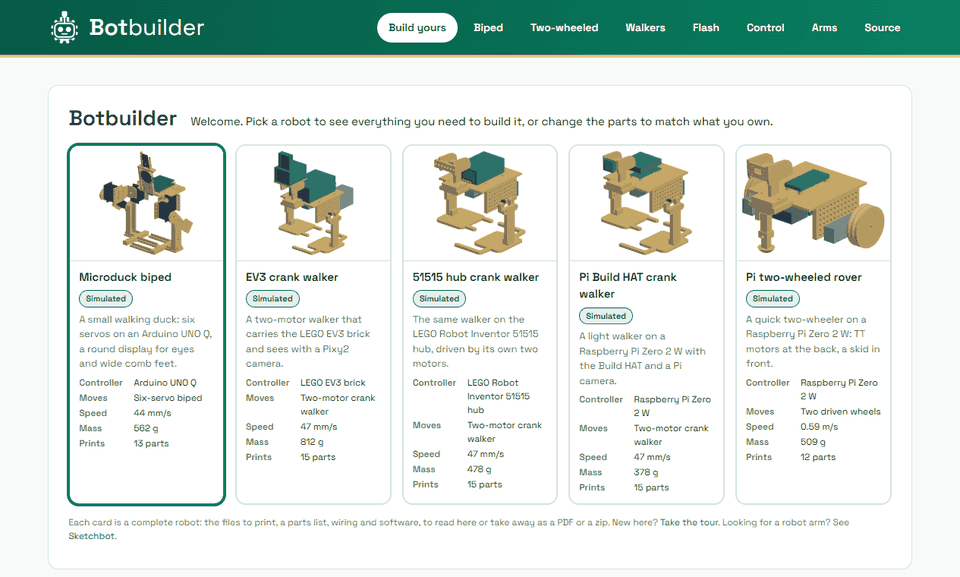
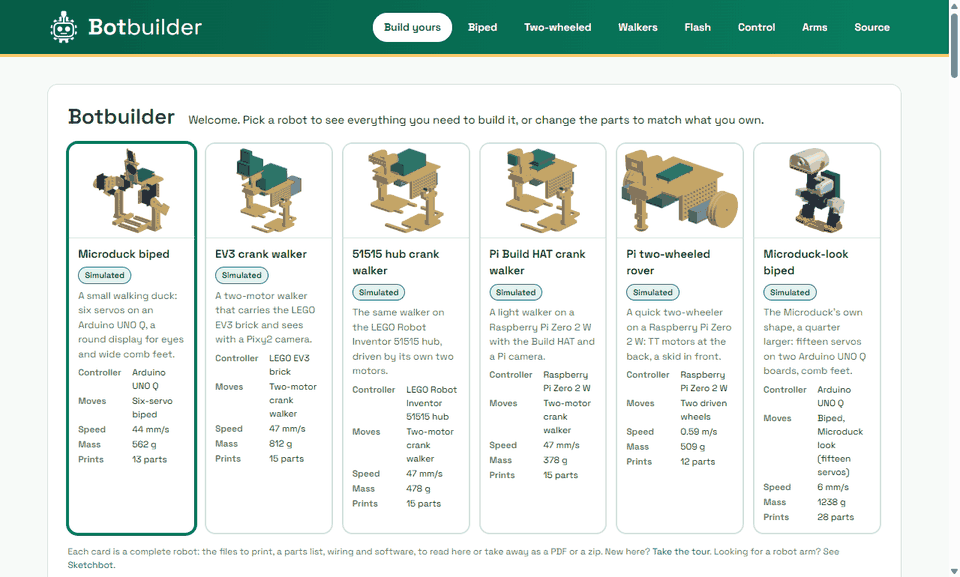
site: the Microduck-look biped as the sixth finished build
A card on the landing page, on its comb feet, with its own picture; the
feet are a choice in the sidebar for it as for the plate biped, and each
choice has its own entry in the build's summary. Its recipe links to a
flash page that says what to do in place of the six-joint agent's
commands, and to a section about it on the biped page.

Changed region(s): [[0.0625, 0.1872, 0.9375, 0.9983], [0.0, 0.0, 1.0, 0.1248]]

diff --git a/site/biped.html b/site/biped.html
@@ -39,7 +39,7 @@
       <span class="release-tag">Bench prototype</span>
     </div>
     <p class="lead"><a href="./?locomotion=biped">Build this biped from the parts you have</a>: the configurator lists the files, parts and wiring for your controller.</p>
-    <p class="subnav">On this page: <a href="#assembly">Assembly</a><a href="#viewer">3D view</a><a href="#simulation">Simulation</a><a href="#motion">Walk and sit</a><a href="#real">Sim to real</a></p>
+    <p class="subnav">On this page: <a href="#assembly">Assembly</a><a href="#viewer">3D view</a><a href="#simulation">Simulation</a><a href="#motion">Walk and sit</a><a href="#real">Sim to real</a><a href="#look">Microduck look</a></p>
 
     <section id="what" class="two-col">
       <div>
@@ -143,6 +143,28 @@
         <p id="power"></p>
       </div>
     </section>
+
+    <section id="look">
+      <div class="section-heading"><span class="step">06</span><h2>The Microduck-look biped</h2><a href="https://github.com/eoinjordan/botbuilder/blob/main/docs/microduck-look.md" rel="noopener noreferrer">Full report</a></div>
+      <div class="two-col">
+        <div>
+          <p>A second biped that keeps the Microduck's own shape: its body, head, thigh covers and feet at 1.25 times the
+            size, on the servos of two TinkerKit Braccio kits. Fifteen joints: hip yaw, hip roll, hip pitch, knee and ankle
+            on each leg, a pitching neck, and a head that pitches, turns, rolls and opens its beak. Two Arduino UNO Q
+            boards with their shields ride on its back; a camera board sits behind the eye.</p>
+          <p>It comes with two sets of feet: the Microduck's soles widened towards the centre line, or comb feet whose
+            fingers cross the centre line between the other foot's, so either foot alone is under the body.
+            <a href="./?locomotion=biped_look">Build this one</a>: the configurator lists its files, parts and wiring.</p>
+          <dl class="facts" id="look-facts"></dl>
+          <p class="small-note" style="margin-left:0">Source model: Microduck by Pollen Robotics,
+            <a href="https://github.com/pollen-robotics/microduck_rl" rel="noopener noreferrer">github.com/pollen-robotics/microduck_rl</a>.
+            The parts of this build and the pictures of them are adapted from it and carry
+            <a href="https://creativecommons.org/licenses/by-nc-sa/4.0/" rel="noopener noreferrer">CC BY-NC-SA 4.0</a>
+            (<a href="./stl/microduck-look/LICENSE">credit and changes</a>); not for commercial use. Print the fit pieces first.</p>
+        </div>
+        <figure><img loading="lazy" src="./stl/microduck-look/images/look-comb-feet.png" width="700" height="760" alt="Rendered view of the Microduck-look biped standing on its comb feet"><figcaption>Stand pose, on the comb feet</figcaption></figure>
+      </div>
+    </section>
   </main>
   <footer>
     <p class="foot-note">The printable parts are flat plates whose outlines started from Microduck meshes; those meshes are not in the repository; see NOTICE. No analytics, no cookies; the checklist ticks stay in this browser.</p>
@@ -156,7 +178,8 @@
       <a href="https://github.com/eoinjordan/botbuilder" rel="noopener noreferrer">Source</a>
       <a href="https://github.com/eoinjordan/botbuilder/issues" rel="noopener noreferrer">Report a problem</a>
     </nav>
-    <p class="foot-legal">Code and printable parts under the MIT licence; pictures as on the credits page. Fonts: Space Grotesk, SIL Open Font
+    <p class="foot-legal">Code and printable parts under the MIT licence, except the Microduck-look parts: CC BY-NC-SA 4.0, adapted from the
+      Microduck by Pollen Robotics (<a href="./stl/microduck-look/LICENSE">text</a>). Pictures as on the credits page. Fonts: Space Grotesk, SIL Open Font
       License (<a href="./assets/licenses/space-grotesk.txt">text</a>). <span id="trademarks">LEGO, Mindstorms and Technic are trademarks of the LEGO Group, which does not sponsor, authorise or endorse this project. Raspberry Pi is a trademark of Raspberry Pi Ltd. Arduino, UNO Q, TinkerKit and Braccio are trademarks of Arduino. No affiliation with any of them.</span></p>
     <!-- /shared:footer -->
   </footer>

diff --git a/site/flash.js b/site/flash.js
@@ -25,6 +25,13 @@ export const BASES = {
   esp32cam: { label: "AI Thinker ESP32-CAM", written: false,
     note: "No firmware for an ESP32-CAM exists. The sketchbot flashes its camera board, an ESP-EYE, by hand from the " +
       "Arduino IDE; that sketch does not run on an ESP32-CAM as it is. There is no command to give here." },
+  look: { label: "Microduck-look biped on two Arduino UNO Q boards", written: false,
+    note: "This build has fifteen joints on two Arduino UNO Q boards and an I2C servo driver. The agent this page " +
+      "flashes drives six joints on one board, so no command is shown here rather than a made-up one. What you can " +
+      "do: rehearse the build in simulation with python scripts/run_look.py --sim; write your own sketch from the " +
+      "joint table in robot/microduck-look/joints.json, which names each joint's range, servo, board and output; or " +
+      "go back to Build yours and pick the six-servo biped, which has flash steps. Keep both servo supplies " +
+      "disconnected whenever you flash a board." },
   raspberrypi: { label: "Raspberry Pi", written: false },
   lego: { label: "LEGO hub", written: false },
   m5stack: { label: "M5Stack", written: false },
@@ -40,7 +47,8 @@ export function resolveBase(value) {
   const given = raw.slice(0, 40);
   const id = raw.toLowerCase().replace(/[^a-z0-9]/g, "");
   let key = "other";
-  if (/^(arduino)?unoq/.test(id)) key = "unoq";
+  if (/^(microduck)?look/.test(id)) key = "look";
+  else if (/^(arduino)?unoq/.test(id)) key = "unoq";
   else if (id.includes("espeye")) key = "espeye";
   else if (id.includes("esp32cam")) key = "esp32cam";
   else if (id.includes("raspberry") || /^r?pi/.test(id)) key = "raspberrypi";

diff --git a/site/app.js b/site/app.js
@@ -264,8 +264,31 @@ async function viewer(model, joints) {
   window.microduckViewer = { hinges, setJoint, pose, draw };
 }
 
+// The Microduck-look biped: mass, size and the simulated walking speed on
+// each set of feet, from its summary (reports/microduck-look/summary.json).
+function fillLook(summary) {
+  const facts = document.getElementById("look-facts");
+  const first = summary.entries[0];
+  const items = [
+    ["Mass", `${Math.round(first.mass_g)} g`],
+    ["Size (L x W x H)", first.size_mm.map((value) => Math.round(value)).join(" x ") + " mm"],
+    ["Actuated joints", "15"],
+  ];
+  const speeds = summary.walking_speed_by_feet;
+  if (speeds) {
+    items.push(["Simulated walk, plain feet", `${speeds.flat.speed_mm_s} mm/s`]);
+    items.push(["Simulated walk, comb feet", `${speeds.comb.speed_mm_s} mm/s`]);
+  }
+  for (const [name, value] of items) {
+    const box = document.createElement("div");
+    box.append(el("dt", name), el("dd", value));
+    facts.append(box);
+  }
+}
+
 async function main() {
   checklist();
+  getJson("look-summary.json").then(fillLook).catch(() => {});
   try {
     const [report, sim, joints, model, hardware] = await Promise.all(
       ["assembly.json", "sim.json", "joints.json", "model.json", "hardware.json"].map(getJson));

diff --git a/site/build.js b/site/build.js
@@ -313,6 +313,7 @@ function pass(data, sel) {
     status,
     reasons: reasons.map((text) => fill(text, values)),
     base: row.base,
+    flash: row.flash ?? row.base,
     build: buildId(sel),
     validated: mark,
     sources: base.sources,
@@ -424,6 +425,7 @@ export function evaluate(data, selection) {
     reasons: first.reasons,
     refusal: first.codes,
     base: null,
+    flash: null,
     build: buildId(sel),
     validated: null,
     sources: [],
@@ -727,7 +729,7 @@ function render(data, recipe, target) {
   if (more) {
     const para = el("p", undefined, "type-link no-print");
     const link = el("a", more.text);
-    link.href = `./${more.page}`;
+    link.href = `./${more.page}${more.anchor ? `#${more.anchor}` : ""}`;
     para.append(link);
     what.append(para);
   }
@@ -822,7 +824,7 @@ function render(data, recipe, target) {
         // The Flash page builds the commands for this controller, or says
         // that none are written.
         const link = el("a", "Flash steps for this controller");
-        link.href = `./flash.html?base=${encodeURIComponent(recipe.base)}`;
+        link.href = `./flash.html?base=${encodeURIComponent(recipe.flash)}`;
         const para = el("p");
         para.append(link);
         section.append(para);

diff --git a/site/recipe.css b/site/recipe.css
@@ -7,7 +7,7 @@
 .builds-head { display: flex; align-items: baseline; gap: 6px 18px; flex-wrap: wrap; margin-bottom: 14px; }
 .builds-head h1 { font-size: 28px; }
 .builds-lead { margin: 0; color: var(--ink); font-size: 15px; }
-.build-cards { display: grid; grid-template-columns: repeat(5, minmax(0, 1fr)); gap: 14px; padding: 4px; margin: 0 -4px 10px; }
+.build-cards { display: grid; grid-template-columns: repeat(6, minmax(0, 1fr)); gap: 12px; padding: 4px; margin: 0 -4px 10px; }
 .build-card { display: flex; flex-direction: column; min-width: 0; padding: 0; text-align: left; font: inherit; color: var(--ink); background: #fff; border: 2px solid var(--line); border-radius: 14px; overflow: hidden; }
 .build-card:hover { border-color: var(--green); }
 .build-card[aria-checked="true"] { border-color: var(--green); box-shadow: 0 0 0 2px var(--green); }

diff --git a/tests/test_builds.py b/tests/test_builds.py
@@ -62,9 +62,9 @@ def problems(data: dict, entry: dict, root=ROOT) -> list:
     return out
 
 
-def test_the_file_names_four_or_five_builds_in_order(data, written):
+def test_the_file_names_four_to_six_builds_in_order(data, written):
     listed = data["builds"]["list"]
-    assert 4 <= len(listed) <= 5
+    assert 4 <= len(listed) <= 6
     assert [item["id"] for item in listed] == [item["id"] for item in sorted(written["builds"], key=lambda item: item["order"])]
     assert len({item["id"] for item in listed}) == len(listed) and data["builds"]["default"] == listed[0]["id"]
     known = {dim["id"]: [option["id"] for option in dim["options"]] for dim in data["compat"]["dimensions"]}
@@ -75,8 +75,8 @@ def test_the_file_names_four_or_five_builds_in_order(data, written):
         for key, value in item["selection"].items():
             assert value in known[key], f"{item['id']}: {key}={value}"
         assert {"controller", "locomotion", "drive"} <= set(item["selection"])
-    # The range: the biped, the crank walkers and a two-wheeled build, on more than one controller.
-    assert {item["selection"]["locomotion"] for item in listed} == {"biped", "crank", "wheeled"}
+    # The range: the two bipeds, the crank walkers and a two-wheeled build, on more than one controller.
+    assert {item["selection"]["locomotion"] for item in listed} == {"biped", "biped_look", "crank", "wheeled"}
     assert len({item["selection"]["controller"] for item in listed}) >= 4
     wheeled = [item for item in listed if item["selection"]["locomotion"] == "wheeled"]
     assert all(item["selection"]["wheels"] == "back" for item in wheeled)
@@ -123,6 +123,13 @@ def test_every_build_has_figures_from_the_reports(data, sim_report, selected):
         assert set(figures) == {"mass_g", "speed_mm_s"}, entry["id"]
         assert 100 < figures["mass_g"] < 2000 and 5 < figures["speed_mm_s"] < 2000
         sel = recipe.build_selection(data, entry)
+        if sel["locomotion"] == "biped_look":
+            look = json.loads((ROOT / "reports" / "microduck-look" / "summary.json").read_text(encoding="utf-8"))
+            mine = recipe.summary_entry(sel, ROOT)
+            assert mine in look["entries"] and mine["feet"] == sel["feet"] and mine["status"] == "analysed in simulation"
+            assert figures == {"mass_g": mine["mass_g"], "speed_mm_s": look["walking_speed_by_feet"][sel["feet"]]["speed_mm_s"]}
+            assert f"Mass {mine['mass_g']:g} g by the model." in recipe.evaluate(data, sel)["analysis"]
+            continue
         if sel["locomotion"] == "biped":
             study = json.loads((ROOT / "reports" / "motion.json").read_text(encoding="utf-8"))
             walk = study["presets"][sel["feet"]]["walk"]["nominal"]["speed_mm_s"]
@@ -151,6 +158,27 @@ def test_every_build_has_a_current_picture(data):
             assert image.size == buildpics.SIZE and image.mode == "P"
             assert len(image.getcolors()) > 4, "not a blank card"
         assert len(content) < 20_000, "card pictures stay small"
+
+
+def test_the_look_card_is_on_the_feet_that_walk_faster(data, written):
+    """The Microduck-look card names its feet, and names the set that the
+    simulation walks faster on; its recipe gives the source model and the
+    terms of its parts."""
+    look = json.loads((ROOT / "reports" / "microduck-look" / "summary.json").read_text(encoding="utf-8"))
+    card = next(item for item in written["builds"] if item["selection"]["locomotion"] == "biped_look")
+    speeds = look["walking_speed_by_feet"]
+    assert card["selection"]["feet"] == speeds["faster"]
+    assert speeds[speeds["faster"]]["truly_steps"] and not speeds[speeds["faster"]]["poses_with_mesh_overlap"]
+    entry = next(e for e in data["builds"]["list"] if e["id"] == card["id"])
+    rec = recipe.evaluate(data, recipe.build_selection(data, entry))
+    assert rec["flash"] == "look" and rec["base"] == "unoq_braccio"
+    assert any("Microduck by Pollen Robotics, https://github.com/pollen-robotics/microduck_rl" in text and "CC BY-NC-SA 4.0" in text
+               for text in rec["reasons"])
+    names = [item["file"] for item in rec["print"]["files"]]
+    comb = card["selection"]["feet"] == "comb"
+    assert ("microduck-look/left_foot_comb.stl" in names) == comb and ("microduck-look/left_foot.stl" in names) != comb
+    job = buildpics.plan(data, entry)
+    assert job["kind"] == "look" and job["feet"] == ("comb" if comb else "web")
 
 
 def test_the_site_gets_the_builds_and_their_pictures():

diff --git a/tests/test_look_recipe.py b/tests/test_look_recipe.py
@@ -10,7 +10,7 @@ from microduck import recipe
 from microduck.look import model
 
 LINE = "Microduck-look parts: CC BY-NC-SA 4.0, adapted from Pollen Robotics' Microduck; not for commercial use"
-SELECTION = {"controller": "unoq", "locomotion": "biped_look", "drive": "braccio_two_shields", "camera": "esp_eye"}
+SELECTION = {"controller": "unoq", "locomotion": "biped_look", "drive": "braccio_two_shields", "camera": "esp_eye", "feet": "flat"}
 
 pytestmark = pytest.mark.skipif(not model.have_parts(), reason="stl/microduck-look is not there")
 
@@ -31,11 +31,43 @@ def test_the_configurator_offers_it(recipe_data):
     assert "M5Stack Servo Kit 180" in names and "PCA9685" in names
     assert any("Not written for fifteen joints" in line for line in rec["firmware"])
     assert any("One supply per shield" in line for line in rec["power"])
-    entry = load("reports", "microduck-look", "summary.json")["entries"][0]
+    summary = load("reports", "microduck-look", "summary.json")
+    entry = summary["entries"][0]
     assert entry["style"] == "microduck" and entry["title"] == "Biped, Microduck look" and entry["licence_line"] == LINE
+    assert entry["feet"] == "flat" and [e["feet"] for e in summary["entries"]] == ["flat", "comb"]
+    assert summary["source_model"] == "Microduck by Pollen Robotics, https://github.com/pollen-robotics/microduck_rl"
     # the plate biped is as it was: none of these files, none of these parts
     assert " ".join(LINE.split()) in " ".join((ROOT / "README.md").read_text(encoding="utf-8").split())
     plates = recipe.evaluate(recipe_data, {"controller": "unoq", "locomotion": "biped", "drive": "braccio_shield"})
     assert not any(item["file"].startswith("microduck-look/") for item in plates["print"]["files"])
     assert recipe.evaluate(recipe_data, dict(SELECTION, head="sg90_pan"))["refusal"] == ["look-head-has-its-own-servos"]
     assert recipe.evaluate(recipe_data, dict(SELECTION, controller="pi"))["status"] == "not_possible"
+
+
+def test_the_feet_are_a_choice(recipe_data):
+    """Comb or plain feet: each gives the same build with its own two feet,
+    its own numbers from the summary and no flash steps of the six-joint agent."""
+    flat = recipe.evaluate(recipe_data, SELECTION)
+    comb = recipe.evaluate(recipe_data, dict(SELECTION, feet="comb"))
+    assert flat["labels"]["feet"] == "Flat feet" and comb["labels"]["feet"] == "Comb feet"
+    assert "feet=flat" in flat["query"] and "feet=comb" in comb["query"]
+    for rec in (flat, comb):
+        assert rec["status"] == "analysed" and rec["refusal"] == [] and rec["flash"] == "look"
+        files = [item["file"] for item in rec["print"]["files"]]
+        assert len(files) == 28 and all(item["thumb"] and item["link"] for item in rec["print"]["files"])
+        assert any(LINE in text for text in rec["reasons"])
+    names = lambda rec: {item["file"] for item in rec["print"]["files"]}      # noqa: E731
+    assert names(comb) - names(flat) == {"microduck-look/left_foot_comb.stl", "microduck-look/right_foot_comb.stl"}
+    assert names(flat) - names(comb) == {"microduck-look/left_foot.stl", "microduck-look/right_foot.stl"}
+    assert any(line.startswith("Comb feet:") for line in comb["assembly"]) and not any(line.startswith("Comb feet:") for line in flat["assembly"])
+    summary = load("reports", "microduck-look", "summary.json")
+    speeds = summary["walking_speed_by_feet"]
+    study = load("reports", "microduck-look", "sim.json")
+    assert speeds["flat"]["speed_mm_s"] == study["walk"]["speed_mm_s"]
+    assert speeds["comb"]["speed_mm_s"] == study["comb_feet"]["walk"]["speed_mm_s"]
+    for option, rec in (("flat", flat), ("comb", comb)):
+        assert any(f"{speeds[option]['speed_mm_s']} mm/s" in line for line in rec["analysis"]), option
+    # the plate biped keeps its own feet files
+    plates = recipe.evaluate(recipe_data, {"controller": "unoq", "locomotion": "biped", "drive": "braccio_shield", "feet": "comb"})
+    assert any(item["file"] == "left_shin_comb_foot.stl" for item in plates["print"]["files"])
+    assert not any(item["file"].startswith("microduck-look/") for item in plates["print"]["files"]) and plates["flash"] == "unoq_braccio"

diff --git a/microduck/buildpics.py b/microduck/buildpics.py
@@ -7,6 +7,8 @@ rasteriser in microduck/render.py from data that already exists:
 
 - the biped from the assembly model (microduck/model.py) at the stand pose,
   with the face, camera and feet of the build's selection;
+- the Microduck-look biped from its own model (microduck/look/model.py) at
+  its stand pose, on the feet of the build's selection;
 - a crank walker from the walkers package's model of that build;
 - a two-wheeled build from its entry in robot/lego/wheeled/viewer.json:
   the printed files where they are placed, the bought parts as boxes.
@@ -70,6 +72,14 @@ def plan(data: dict, entry: dict, root: Path = ROOT) -> dict:
         report = json.loads((root / "reports" / "assembly.json").read_text(encoding="utf-8"))
         out["stand"] = report["variants"][report["selected"]]["balance"]["stand_pose"]["q_deg"]
         inputs.append(_json_bytes(out["stand"]))
+    elif sel["locomotion"] == "biped_look":
+        out.update(kind="look", feet="comb" if sel["feet"] == "comb" else "web",
+                   source="the Microduck-look model at the stand pose (microduck/look/model.py)")
+        folder = root / "stl" / "microduck-look"
+        inputs += [(folder / name).read_bytes() for name in ("parameters.json", "comb_feet.json") if (folder / name).is_file()]
+        report = json.loads((root / "reports" / "microduck-look" / "assembly.json").read_text(encoding="utf-8"))
+        out["stand"] = report["stand_pose"]["q_deg"]
+        inputs.append(_json_bytes(out["stand"]))
     else:
         summary = recipe.summary_entry(sel, root) or {}
         if sel["locomotion"] == "crank" and summary.get("build"):
@@ -103,6 +113,11 @@ def _biped_items(job: dict) -> list:
         config["feet"] = sel["feet"]
     robot = model.build_robot(None, None, config)
     return report._items(robot.placed(job["stand"]))
+
+
+def _look_items(job: dict) -> list:
+    from .look import model, report
+    return report._items(model.Robot(feet=job["feet"]).placed(job["stand"]))
 
 
 def _walker_items(job: dict) -> list:
@@ -173,7 +188,7 @@ def draw(job: dict, root: Path = ROOT) -> Image.Image:
     if job["kind"] == "parts":
         image = _parts_sheet(job, root)
     else:
-        items = {"biped": _biped_items, "walker": _walker_items}.get(job["kind"])
+        items = {"biped": _biped_items, "look": _look_items, "walker": _walker_items}.get(job["kind"])
         items = items(job) if items else _wheeled_items(job, root)
         image = _frame(render.render(items, view=VIEW, size=(SIZE[0] * 2, SIZE[1] * 2), supersample=2, margin=0.02))
     return image.quantize(colors=COLOURS, dither=0)

diff --git a/microduck/recipe.py b/microduck/recipe.py
@@ -340,7 +340,7 @@ def _summary_entry(node: dict, hints: list[str], compat: dict) -> dict | None:
             return None
         match["drive"] = rows[0]["drive"]
     options = {dim["id"]: [o["id"] for o in dim["options"]] for dim in compat["dimensions"]}
-    for dim in ("wheels", "support", "wheel"):
+    for dim in ("wheels", "support", "wheel", "feet"):
         if node.get(dim) in options[dim]:
             match[dim] = node[dim]
     text = str(node.get("status", "")).strip()
@@ -450,14 +450,15 @@ def validated(root: Path = ROOT) -> list[dict]:
 
 def summary_entry(sel: dict, root: Path = ROOT):
     """The entry of the variants summary for a selection, as written there,
-    or None. Wheeled entries are also matched on the wheel choices."""
-    for name in SUMMARY_PATHS:
+    or None. Wheeled entries are also matched on the wheel choices, and an
+    entry that names its feet on the feet."""
+    for name in SUMMARY_PATHS + EXTRA_SUMMARIES:
         path = root / name
         if not path.is_file():
             continue
         content = _load(path)
         for entry in content.get("entries", []) if isinstance(content, dict) else []:
-            keys = ["controller", "locomotion", "drive"] + [key for key in ("wheels", "support", "wheel") if key in entry]
+            keys = ["controller", "locomotion", "drive"] + [key for key in ("wheels", "support", "wheel", "feet") if key in entry]
             if all(entry.get(key) == sel[key] for key in keys):
                 return entry
     return None
@@ -902,6 +903,7 @@ def _pass(data: dict, sel: dict) -> dict:
         "status": status,
         "reasons": [_fill(text, values) for text in reasons],
         "base": row["base"],
+        "flash": row.get("flash", row["base"]),
         "build": build_id(sel),
         "validated": mark,
         "sources": base["sources"],
@@ -1007,7 +1009,7 @@ def evaluate(data: dict, selection: dict) -> dict:
         "headline": compat["statuses"][status]["headline"],
         "reasons": first["reasons"],
         "refusal": first["codes"],
-        "base": None, "build": build_id(sel), "validated": None, "sources": [], "mechanism": "", "preset": "",
+        "base": None, "flash": None, "build": build_id(sel), "validated": None, "sources": [], "mechanism": "", "preset": "",
         "print": {"note": "", "files": []},
         "parts": [],
         "nearest": {

diff --git a/tests/test_flash.py b/tests/test_flash.py
@@ -203,3 +203,12 @@ def test_every_configurator_base_resolves(tmp_path):
         "unoq_braccio": "unoq", "pi_servo": "raspberrypi", "pi_full_servo": "raspberrypi", "hub51515": "lego", "ev3": "lego", "m5_basex_ev3": "m5stack",
         "pi_buildhat_51515": "raspberrypi"}
     assert [base for base, plan in out.items() if plan["written"]] == ["unoq_braccio"]
+    # A support row may name its own flash id: the Microduck-look biped is on an UNO Q, and the
+    # six-joint agent is not its firmware, so its recipe links here with that id and gets no commands.
+    compat = json.loads((ROOT / "config" / "compat.json").read_text(encoding="utf-8"))
+    named = {row["flash"] for row in compat["support"] if "flash" in row}
+    assert named == {"look"}
+    look = dump(tmp_path, {"plans": {"look": {"base": "look", "host": "unoq.local"}}})["plans"]["look"]
+    assert look["base"]["key"] == "look" and not look["written"] and look["steps"] == []
+    script = (ROOT / "site" / "flash.js").read_text(encoding="utf-8")
+    assert "robot/microduck-look/joints.json" in script and "fifteen joints" in script

diff --git a/tests/test_build_page.py b/tests/test_build_page.py
@@ -172,7 +172,9 @@ def test_navigation_is_the_same_on_every_page_and_has_no_dead_link(built):
 def test_each_type_links_to_its_tab_and_back():
     compat = json.loads((ROOT / "config" / "compat.json").read_text(encoding="utf-8"))
     assert {key: value["page"] for key, value in compat["locomotion_pages"].items()} == {
-        "biped": "biped.html", "wheeled": "wheeled.html", "crank": "walkers.html"}
+        "biped": "biped.html", "wheeled": "wheeled.html", "crank": "walkers.html", "biped_look": "biped.html"}
+    assert compat["locomotion_pages"]["biped_look"]["anchor"] == "look" and '<section id="look">' in read("biped.html")
+    assert "more.anchor" in read("build.js")
     assert "data.compat.locomotion_pages[recipe.selection.locomotion]" in read("build.js")
     for key, value in compat["locomotion_pages"].items():
         assert (SITE / value["page"]).is_file()

diff --git a/tests/test_site_chrome.py b/tests/test_site_chrome.py
@@ -118,7 +118,7 @@ def test_the_fields_have_plain_hints_and_the_readme_shows_the_site(recipe_data):
     readme = (ROOT / "README.md").read_text(encoding="utf-8")
     opening = readme.split("\n## ")[0]
     assert "![Botbuilder](site/assets/logo.svg)" in opening and "https://eoinjordan.github.io/botbuilder/" in opening
-    assert "![The landing page: five finished builds as cards](docs/images/site-landing.png)" in opening
+    assert "![The landing page: six finished builds as cards](docs/images/site-landing.png)" in opening
     shot = ROOT / "docs" / "images" / "site-landing.png"
     assert shot.stat().st_size < 90_000
     with Image.open(shot) as image:
